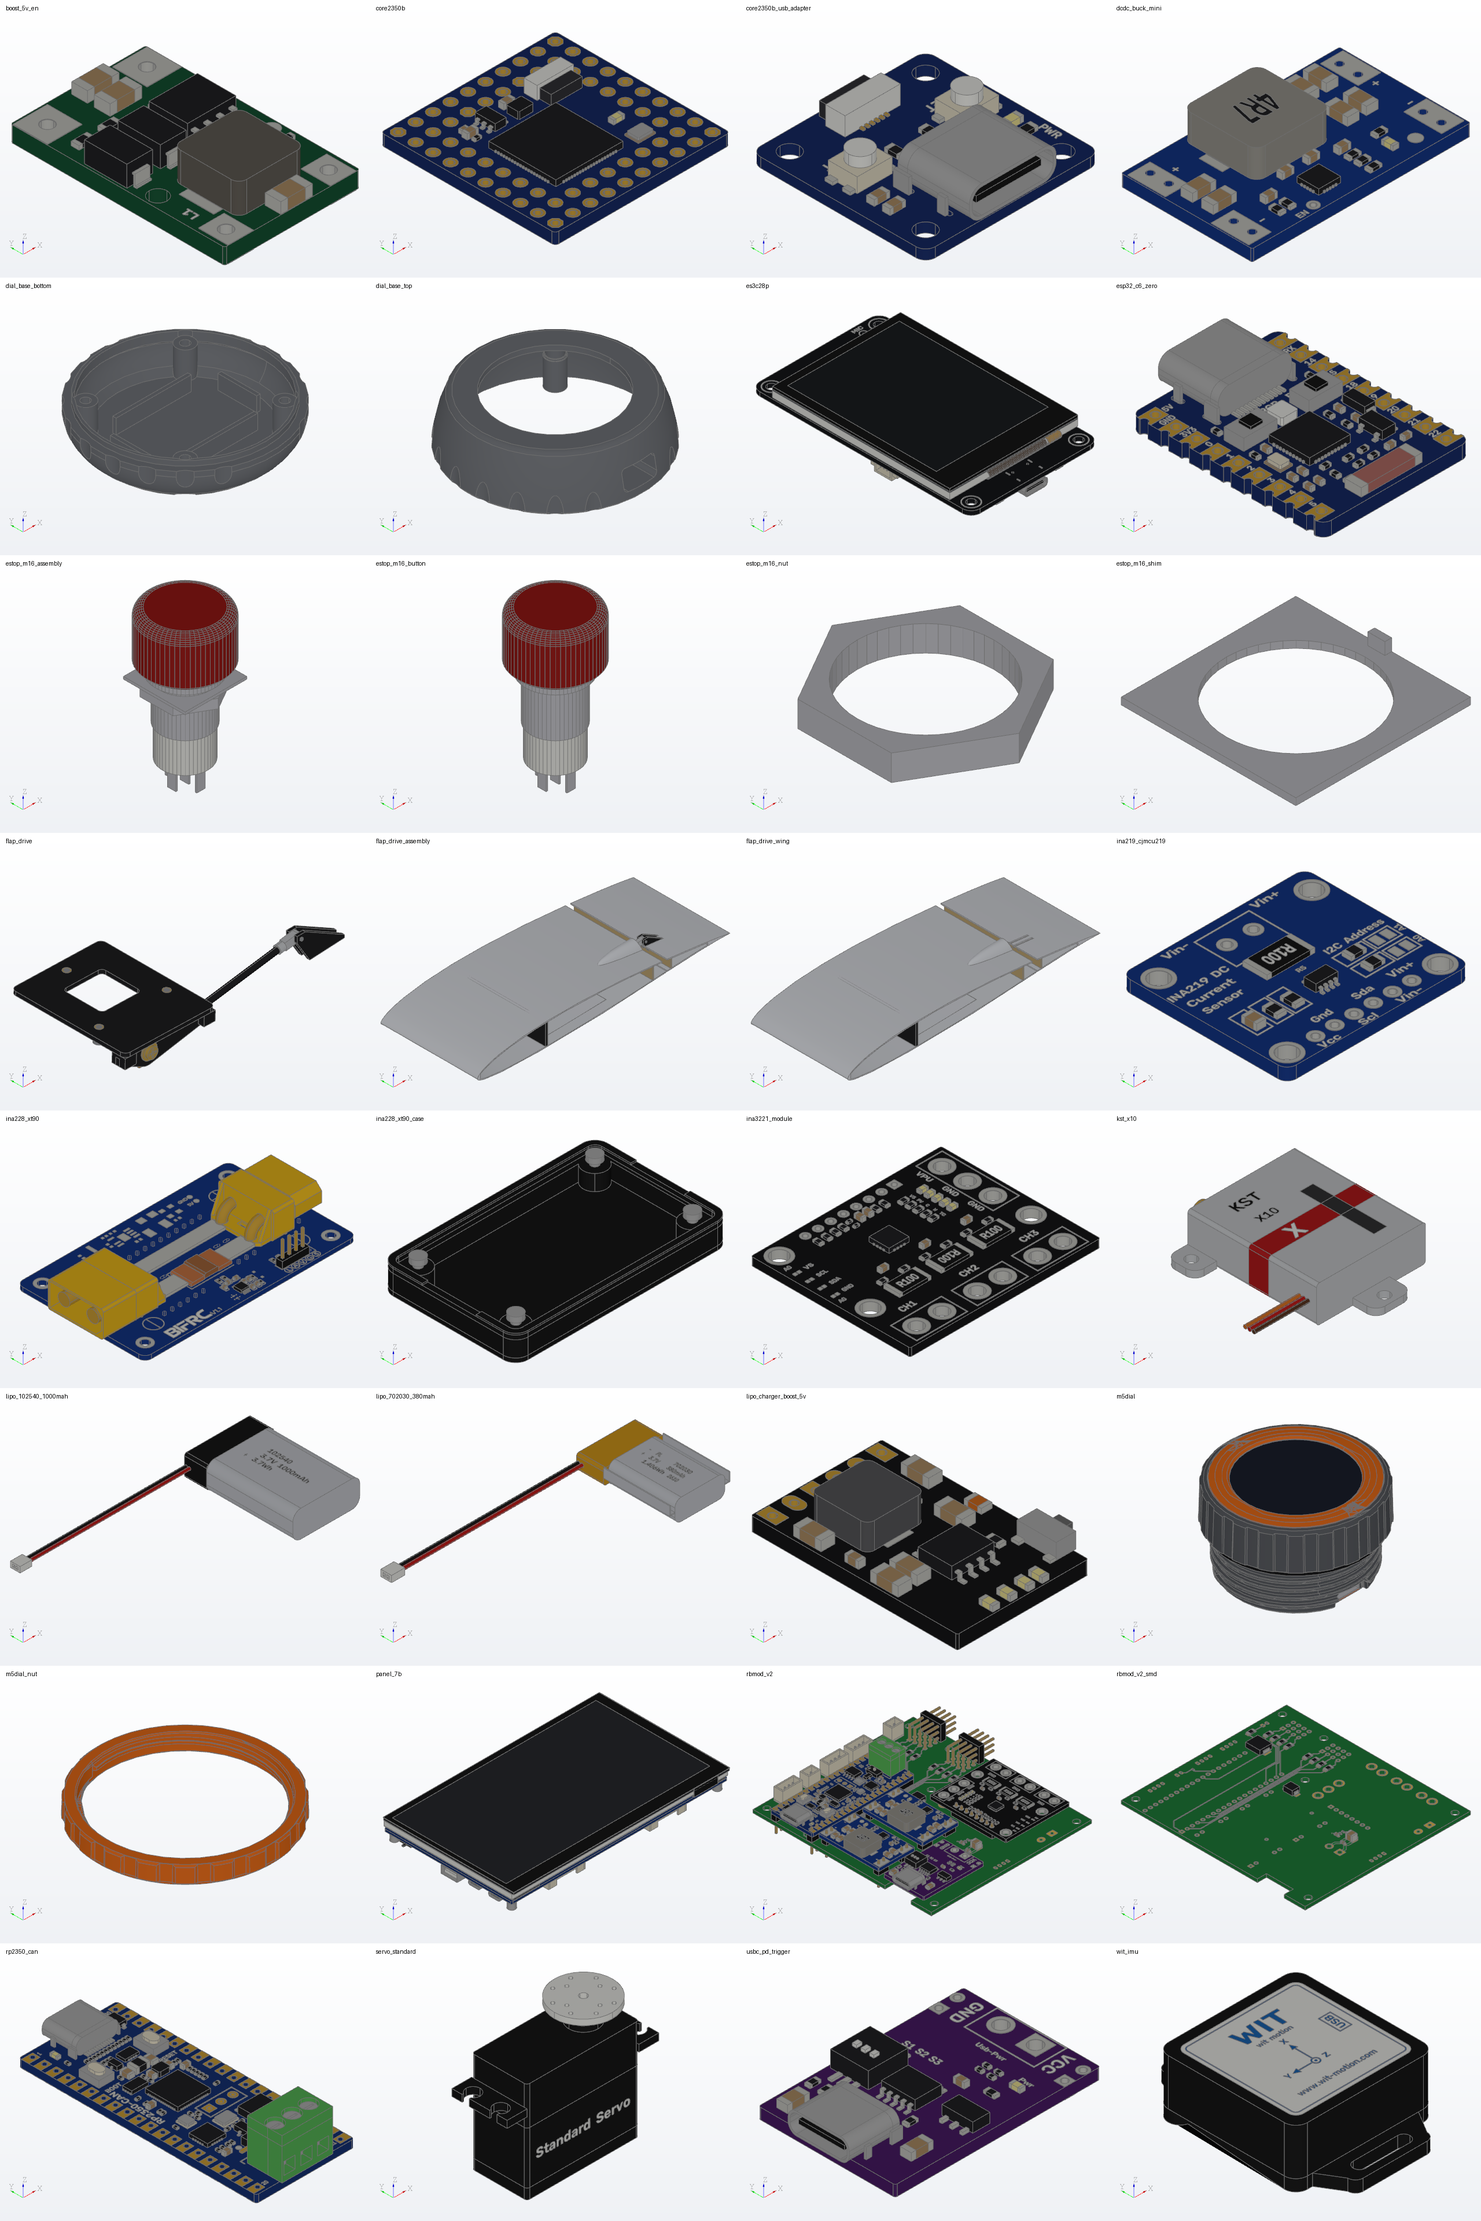
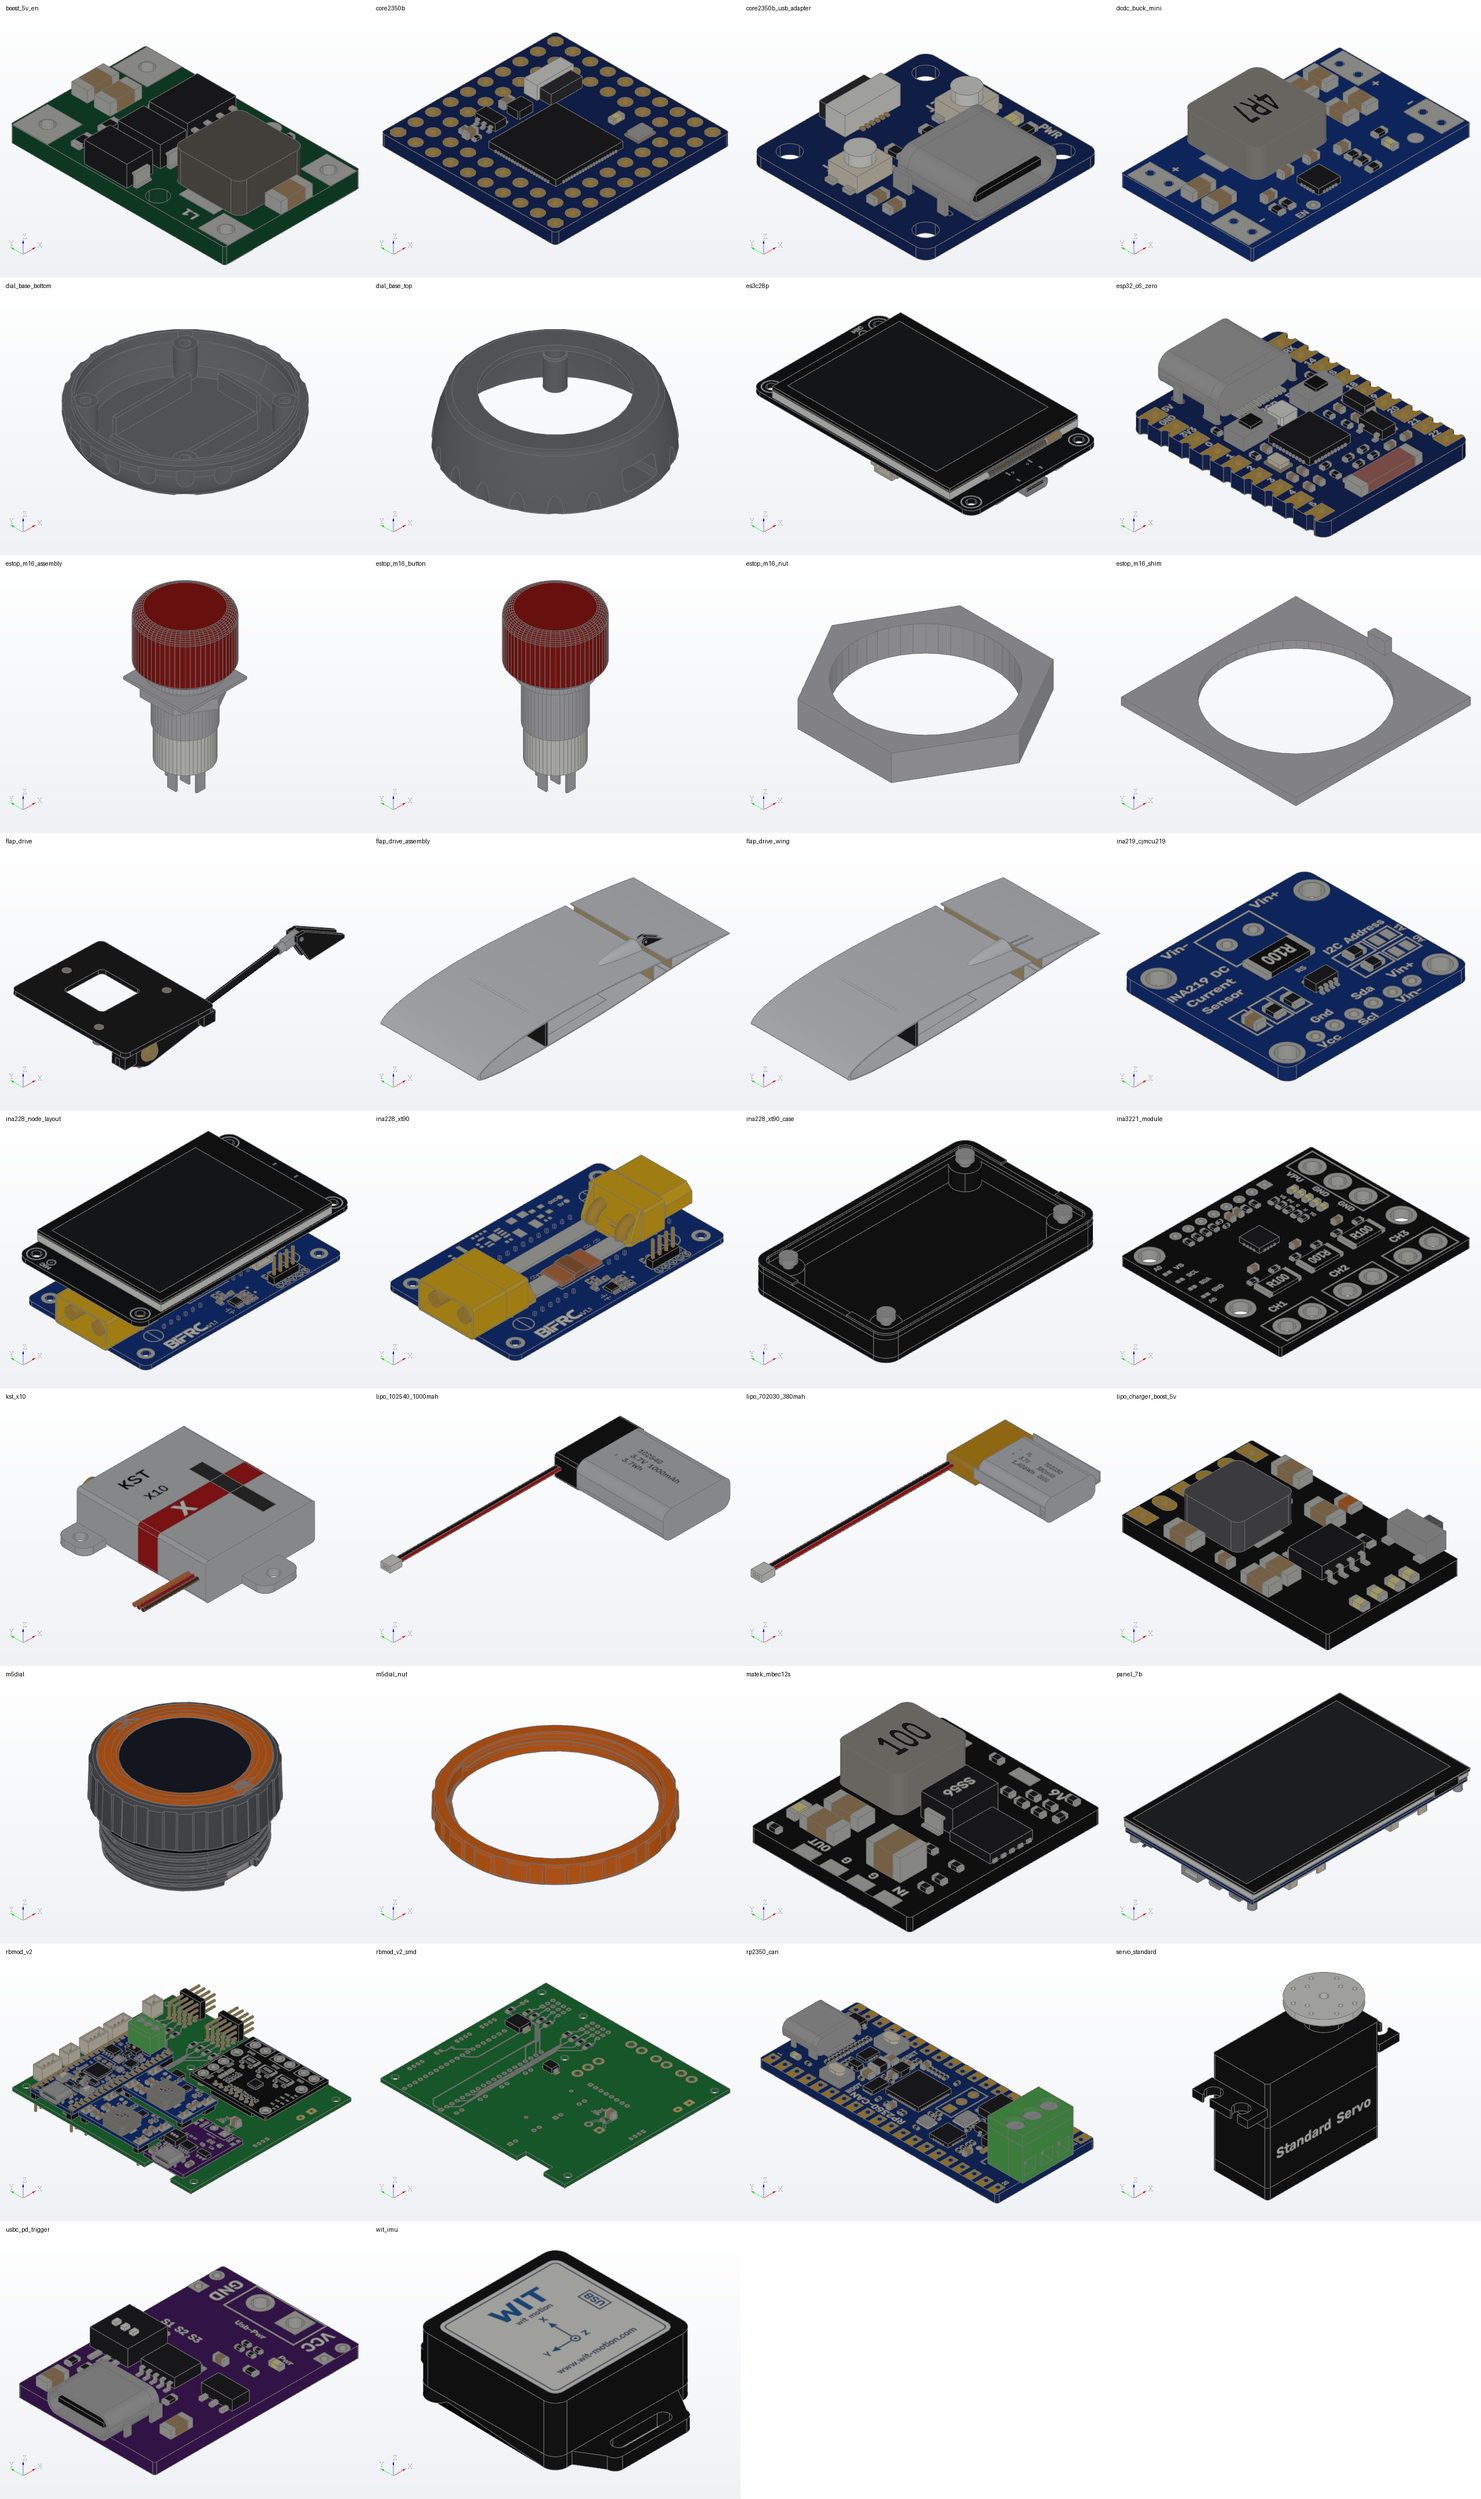
Record and test the sensor node layout and the Matek mBEC12S
Add the README section, status and changelog entries and the renders of
ina228_node_layout and matek_mbec12s. The overlap check covers both
models. test_ina228_node.py checks the converter's size and pads, that
the layout changes no part, that the converter lies beside the current
path and that the display clears the connector housings.

diff --git a/test/tools/test_ina228_node.py b/test/tools/test_ina228_node.py
@@ -1,0 +1,101 @@
+"""hardware/mechanical: the Matek mBEC12S and the sensor node's layout.
+
+The converter is 18.0 x 15.0mm with 4 edge pads 2.54 apart and 4.5 high
+over all. In the layout no part is changed, the converter lies beside
+the plus bar and not over the current path, and the display clears the
+connectors' housings.
+
+SPDX-License-Identifier: MIT
+"""
+
+import sys
+from collections import Counter
+from pathlib import Path
+
+import pytest
+
+ROOT = Path(__file__).resolve().parents[2]
+sys.path.insert(0, str(ROOT / "hardware" / "mechanical"))
+import _solid  # noqa: E402
+import es3c28p  # noqa: E402
+import ina228_node  # noqa: E402
+import ina228_xt90  # noqa: E402
+import matek_mbec12s  # noqa: E402
+
+# The shunt with the minus bar and the plus bar with its solder, y.
+CURRENT_PATH = (10.0, 28.5)
+
+
+@pytest.mark.parametrize("spec,count", [(matek_mbec12s, 147),
+                                        (ina228_node, 1139)])
+def test_solids_close(spec, count):
+    """Each edge of each solid is used once in each direction."""
+    (items,) = spec.parts(None).values()
+    assert len(items) == count
+    for _kind, _points, edges, faces, _rgb in items:
+        used = Counter((edge, forward) for _s, _same, loops in faces
+                       for loop in loops for edge, forward in loop)
+        assert all(used[(e, d)] == 1 for e in range(len(edges))
+                   for d in (True, False))
+
+
+def test_converter_has_the_listed_size():
+    """18.0 x 15.0, 4.5 over all, origin at the pad OUT on the edge."""
+    box = ina228_node.extent(matek_mbec12s.bare())
+    assert box[3] - box[0] == pytest.approx(18.0)
+    assert box[4] - box[1] == pytest.approx(15.0)
+    assert box[5] - box[2] == pytest.approx(4.5, abs=0.1)
+    assert box[0] == pytest.approx(0.0)
+
+
+def test_converter_pads_are_a_tenth_inch_apart():
+    """OUT, G, G and IN on one edge."""
+    names = [pad[0] for pad in matek_mbec12s.PADS]
+    places = [pad[1] for pad in matek_mbec12s.PADS]
+    assert names == ["OUT", "G", "G", "IN"]
+    assert [b - a for a, b in zip(places, places[1:],
+                                  strict=False)] == pytest.approx(
+        [2.54] * 3)
+
+
+def test_layout_changes_no_part():
+    """Each part has the solids and the size of its own spec."""
+    parts = ina228_node.layout()
+    own = {"module": ina228_node.module(), "buck": matek_mbec12s.bare(),
+           "display": es3c28p.bare()}
+    assert set(parts) == set(own)
+    for name, shapes in parts.items():
+        assert len(_solid.items(shapes)) == len(_solid.items(own[name]))
+        box, ref = ina228_node.extent(shapes), ina228_node.extent(own[name])
+        size = sorted(box[k + 3] - box[k] for k in range(2))
+        assert size == pytest.approx(
+            sorted(ref[k + 3] - ref[k] for k in range(2)))
+        assert box[5] - box[2] == pytest.approx(ref[5] - ref[2])
+
+
+def test_converter_is_beside_the_current_path():
+    """Past the plus bar's solder, over the board, between the housings."""
+    box = ina228_node.extent(ina228_node.buck())
+    assert box[1] == pytest.approx(CURRENT_PATH[1] + ina228_node.BAR_GAP)
+    assert box[4] <= ina228_node.BOARD[3]
+    assert box[2] == pytest.approx(ina228_xt90.T + ina228_node.BUCK[1],
+                                   abs=0.05)
+    assert box[5] < ina228_node.HOUSING_TOP
+
+
+def test_display_clears_the_housings():
+    """Its lowest part is GAP over the connectors, centred on the board."""
+    box = ina228_node.extent(ina228_node.display())
+    assert box[2] == pytest.approx(ina228_node.HOUSING_TOP
+                                   + ina228_node.GAP)
+    board = ina228_node.BOARD
+    assert (box[1] + box[4]) / 2 == pytest.approx((board[1] + board[3]) / 2)
+
+
+def test_layout_has_its_size():
+    """86.4 x 50.0 x 23.7 over all."""
+    (items,) = ina228_node.parts(None).values()
+    points = [q for _k, pts, _e, _f, _rgb in items for q in pts]
+    size = [max(q[k] for q in points) - min(q[k] for q in points)
+            for k in range(3)]
+    assert size == pytest.approx([86.4, 50.0, 23.7], abs=0.05)

diff --git a/hardware/mechanical/check_overlap.py b/hardware/mechanical/check_overlap.py
@@ -35,7 +35,8 @@ MODELS = ("panel_7b", "ina228_xt90+ina228_xt90_case", "ina219_cjmcu219",
           "lipo_702030_380mah",
           "lipo_102540_1000mah", "servo_standard", "kst_x10", "wit_imu",
           "rbmod_v2_smd", "rbmod_v2", "rp2350_can", "ina3221_module",
-          "dcdc_buck_mini", "usbc_pd_trigger")
+          "dcdc_buck_mini", "usbc_pd_trigger", "matek_mbec12s",
+          "ina228_node_layout")
 SHARED = 1e-6           # mm3
 
 

diff --git a/hardware/mechanical/README.md b/hardware/mechanical/README.md
@@ -19,6 +19,8 @@ models from the specs with `hardware/kicad/tools/step_gen.py`.
 | `core2350b.py` | spec of the Waveshare Core2350B and its USB adapter board |
 | `es3c28p.py` | spec of the LCDWIKI ES3C28P, the display node's board: 2.8" display, ESP32-S3, sockets |
 | `rp2350_can.py`, `ina3221_module.py`, `dcdc_buck_mini.py`, `usbc_pd_trigger.py` | specs of 4 module boards, part by part: Waveshare RP2350-CAN, INA3221 board, Mini560 buck converter, USB-C PD trigger board |
+| `matek_mbec12s.py` | spec of the Matek mBEC12S buck converter, 6V to 60V in |
+| `ina228_node.py` | layout of the remote INA228 sensor node: INA228 module, buck converter and display in place |
 | `rbmod_v2.py` | spec of the rbmod carrier board, version 2: with its SMD parts, and with its connectors and modules |
 | `_read_kicad_pcb.py` | reads a KiCad board file's outline, holes, footprints, and the pads, tracks and vias of its 2 outer layers into a data file; the copper needs shapely |
 | `_rbmod_v2_data.py` | outline, holes, footprints and outer copper of the rbmod board, version 2, written by `_read_kicad_pcb.py` |
@@ -684,6 +686,53 @@ Limits:
   to the board, 3 chip parts of 0402 beside RESET that the photos show
   and the STEP file lacks, and the notches the panel's tabs leave in the
   edges.
+
+## Remote INA228 sensor node, layout
+
+The boards of the remote sensor node in the places a case will hold
+them: the [INA228 module](#ina228-module-with-xt90-connectors) at the
+bottom, the [display board](#display-node-board-lcdwiki-es3c28p) on top,
+a Matek mBEC12S buck converter between them. The node has no cell and no
+charger board: the converter feeds it with 5V from the measured line of
+6V to 60V. No part is changed; each is the model of its own spec, moved
+and turned. No case is drawn.
+
+| | |
+| --- | --- |
+| ![Sensor node layout](renders/ina228_node_layout.png) | ![Matek mBEC12S](renders/matek_mbec12s.png) |
+| `ina228_node_layout.step` | `matek_mbec12s.step` |
+
+| File | Content | Size, mm | Origin |
+| --- | --- | --- | --- |
+| `ina228_node_layout.step` | INA228 module, buck converter, display board; 1139 solids, 10.3MB | 86.4 x 50.0 x 23.7 | the INA228 module's: header pin 1 on the board's underside |
+| `matek_mbec12s.step` | Matek mBEC12S, black: 4 edge pads OUT, G, G, IN 2.54 apart, inductor with the print 100, diode SS56, converter chip, 3 capacitors, LED, 13 chip parts, 2 voltage pads, the print of both sides; 147 solids, 1.8MB | 18.0 x 15.0, 1.2 thick; 4.5 over all | the pad OUT on the board's edge, on the underside |
+
+| Part | x, mm | y, mm | z, mm |
+| --- | --- | --- | --- |
+| INA228 module | -58.4 to 25.0 | -4.2 to 44.4 | -1.1 to 11.5 |
+| Buck converter | -30.0 to -12.0 | 29.0 to 44.0 | 3.1 to 7.65 |
+| Display board | -59.1 to 27.3 | -4.9 to 45.1 | 12.0 to 22.6 |
+
+- The shunt with the minus bar (y 10.0 to 18.1) and the plus bar (y 22.5
+  to 27.6, its solder to 28.5 on the underside) carry the whole current.
+  The converter lies beside them, 0.5mm past the plus bar's solder and
+  1.5mm over the board, between the 2 connector housings. The strip it
+  lies in is 15.9mm wide, the converter 15.0mm. Its 4 pads face the plug
+  half.
+- The display's long side runs along the INA228 board's long side, the
+  centers of the 2 boards over each other, its USB Type-C socket at the
+  socket half's end. Its lowest part is 0.5mm over the connector
+  housings, which end 11.5mm over the board's underside.
+- Not drawn: wires and anything that holds the parts.
+
+The converter is drawn from 6 seller pictures, none in the repository:
+a top view with the dimensions 18mm, 15mm and 2.54mm printed on it, and
+a view of the underside. Part places are read from the top view by eye
+at 23px/mm, within about 0.5mm. Sellers' listings give 18 x 15 x 4.5mm
+and 2g. No height but the 4.5mm over all is known; the board's thickness
+is read off an angled picture. The half holes of the edge pads are not
+drawn. Output is 5V as delivered; a solder bridge on the pad 9V or 12V
+sets that voltage.
 
 ## Module boards of the rbmod carrier
 

diff --git a/hardware/STATUS.md b/hardware/STATUS.md
@@ -67,6 +67,16 @@ trigger board (purple). The same models are the 3D models of their
 footprints in the KiCad library. Part places are read from sellers' and the
 maker's straight views laid onto each board's frame, within 0.2mm to 0.5mm;
 no height is measured and no board is measured with a caliper.
+It holds a layout of the remote INA228 sensor node, `ina228_node_layout.step`:
+the INA228 module at the bottom, the ES3C28P display board 0.5mm over its
+connector housings, a Matek mBEC12S buck converter (6V to 60V in, 5V out)
+beside the plus bar and 1.5mm over the board, 86.4mm x 50.0mm x 23.7mm over
+all. The node has no cell and no charger board (owner, 2026-11-21). The
+converter's model, `matek_mbec12s.step`, is drawn from seller pictures by eye,
+within about 0.5mm; only its 4.5mm over all is a listed height. The node's
+case is not drawn; chosen for it (owner, 2026-11-21): openings for USB-C,
+microSD, RESET, BOOT, speaker and microphone, ruthex RX-M3Sx4.0 inserts, no
+mounting ears.
 It holds a STEP model of a standard size servo with a round horn, black with
 the white print "Standard Servo", from an owner sketch with dimensions: case
 40.5mm x 20.0mm x 36.3mm, mounting holes 49.5mm x 10.0mm apart. The horn's

diff --git a/CHANGELOG.md b/CHANGELOG.md
@@ -8,6 +8,15 @@ history is in git.
 
 ### Added
 
+- `hardware/mechanical/`: `ina228_node_layout.step`, the boards of the
+  remote INA228 sensor node in place: the INA228 module with its 2 XT90PW
+  connectors at the bottom, the ES3C28P display board 0.5mm over the
+  connector housings, a Matek mBEC12S buck converter (6V to 60V in, 5V
+  out) beside the plus bar, not over the current path. 86.4mm x 50.0mm x
+  23.7mm over all, 1139 solids, no two sharing volume. `matek_mbec12s.step`
+  is the converter alone, 18.0mm x 15.0mm x 4.5mm, drawn from seller
+  pictures within about 0.5mm. No case is drawn
+  ([Mechanical parts](hardware/mechanical/README.md#remote-ina228-sensor-node-layout)).
 - `hardware/mechanical/`: the rbmod carrier's models carry the copper of
   the 2 outer layers, read from the board file by `_read_kicad_pcb.py`:
   280 pads, gold for their ENEPIG finish, and the tracks and vias in a
